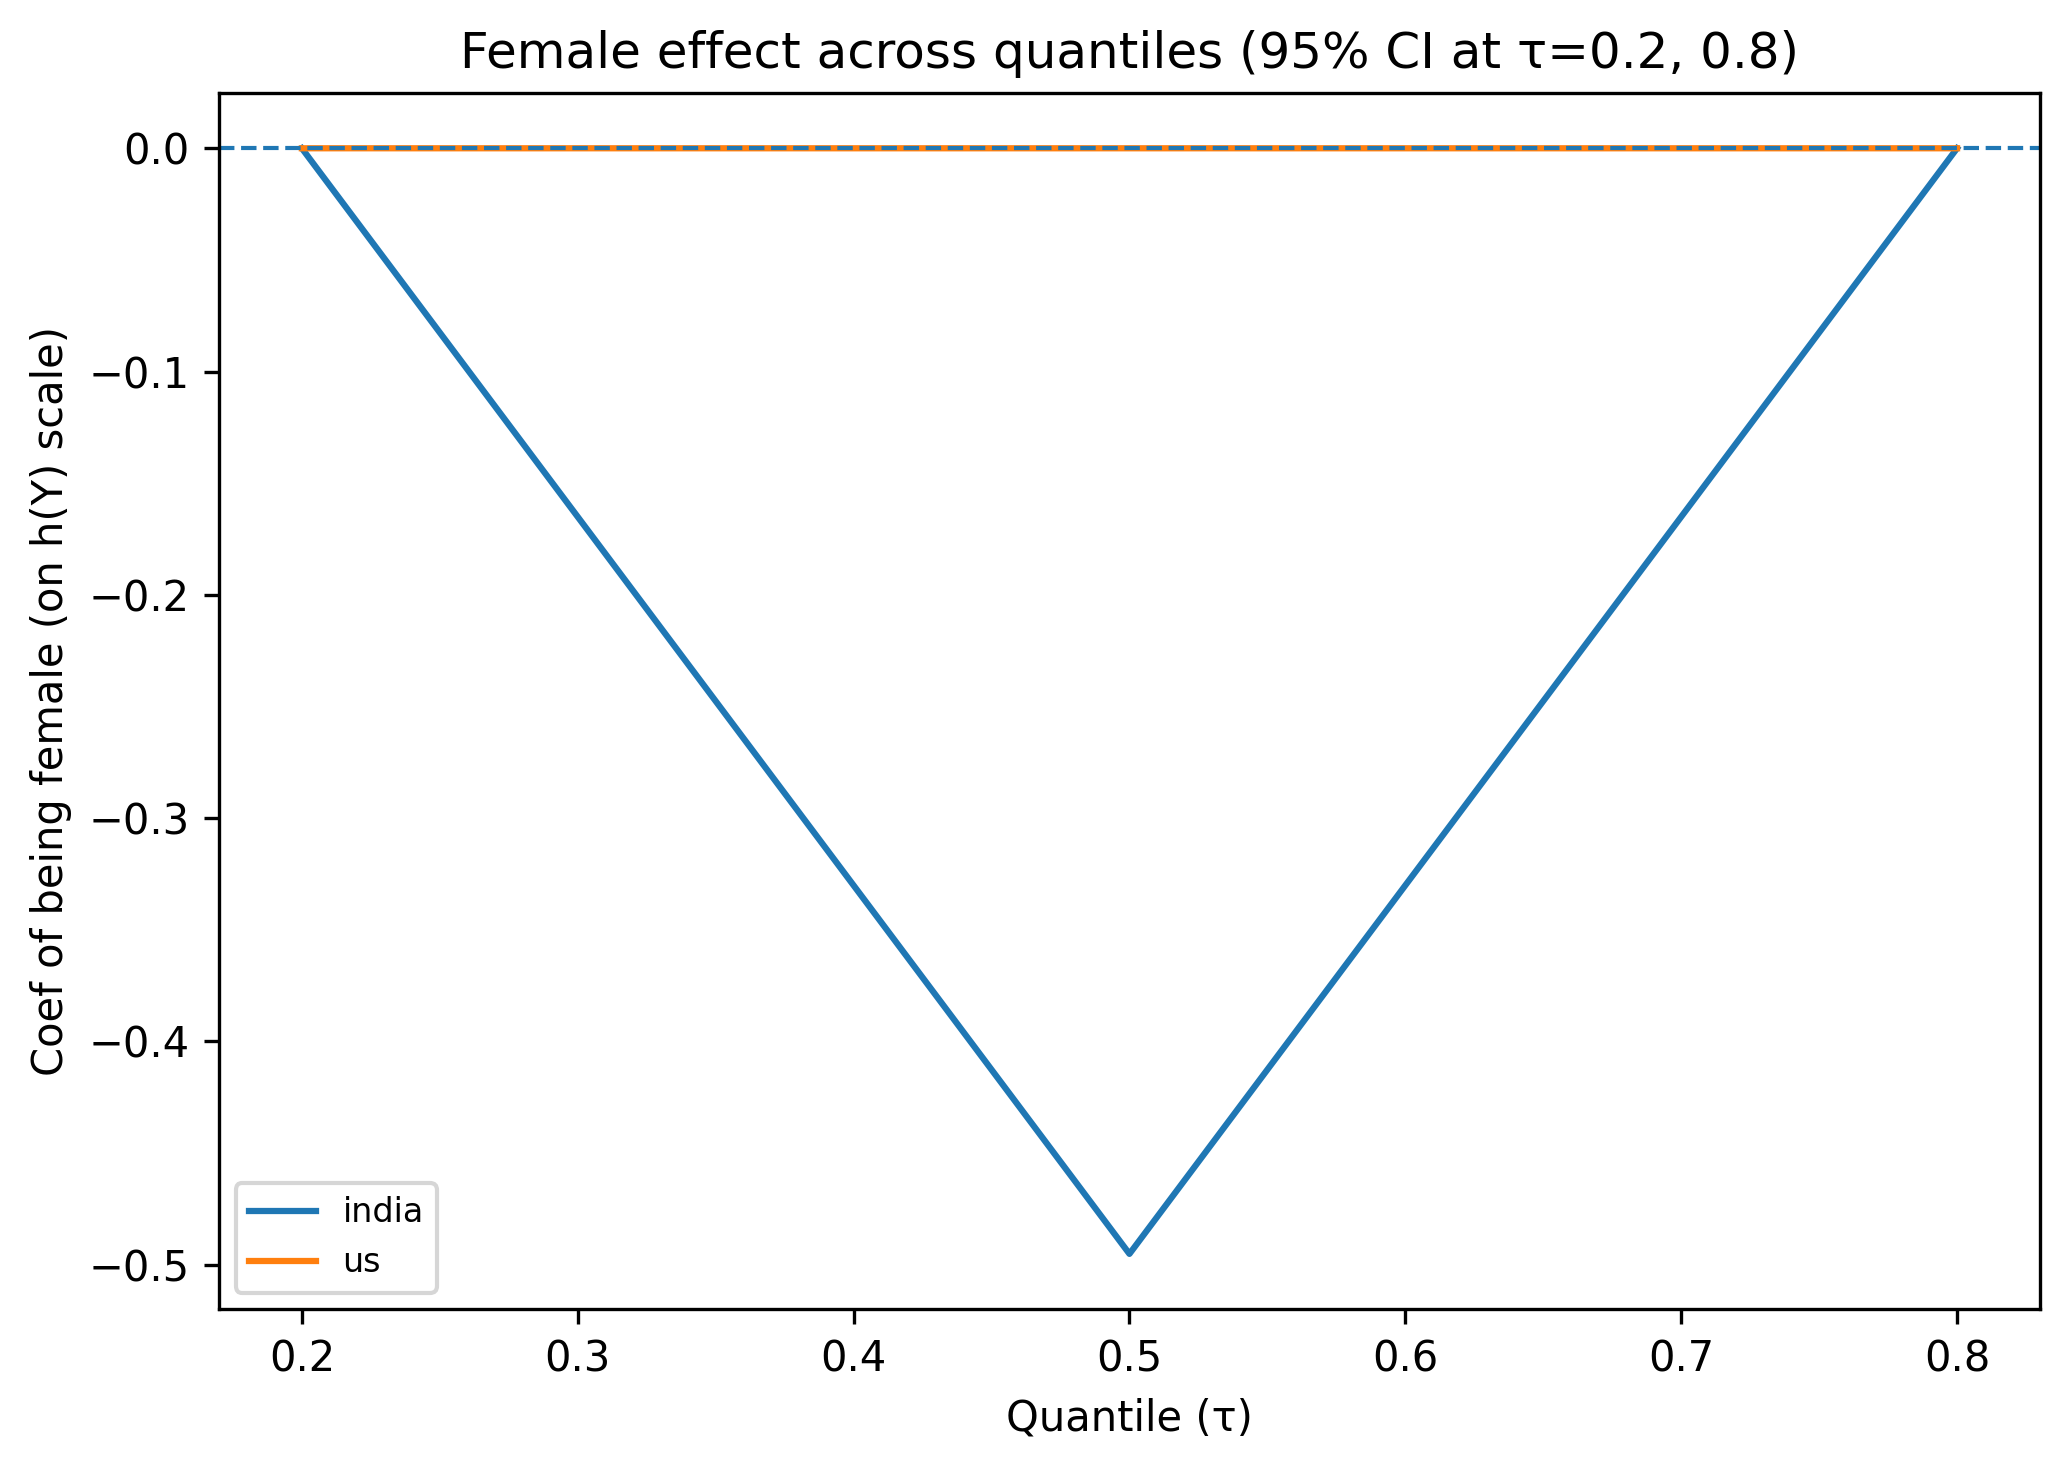
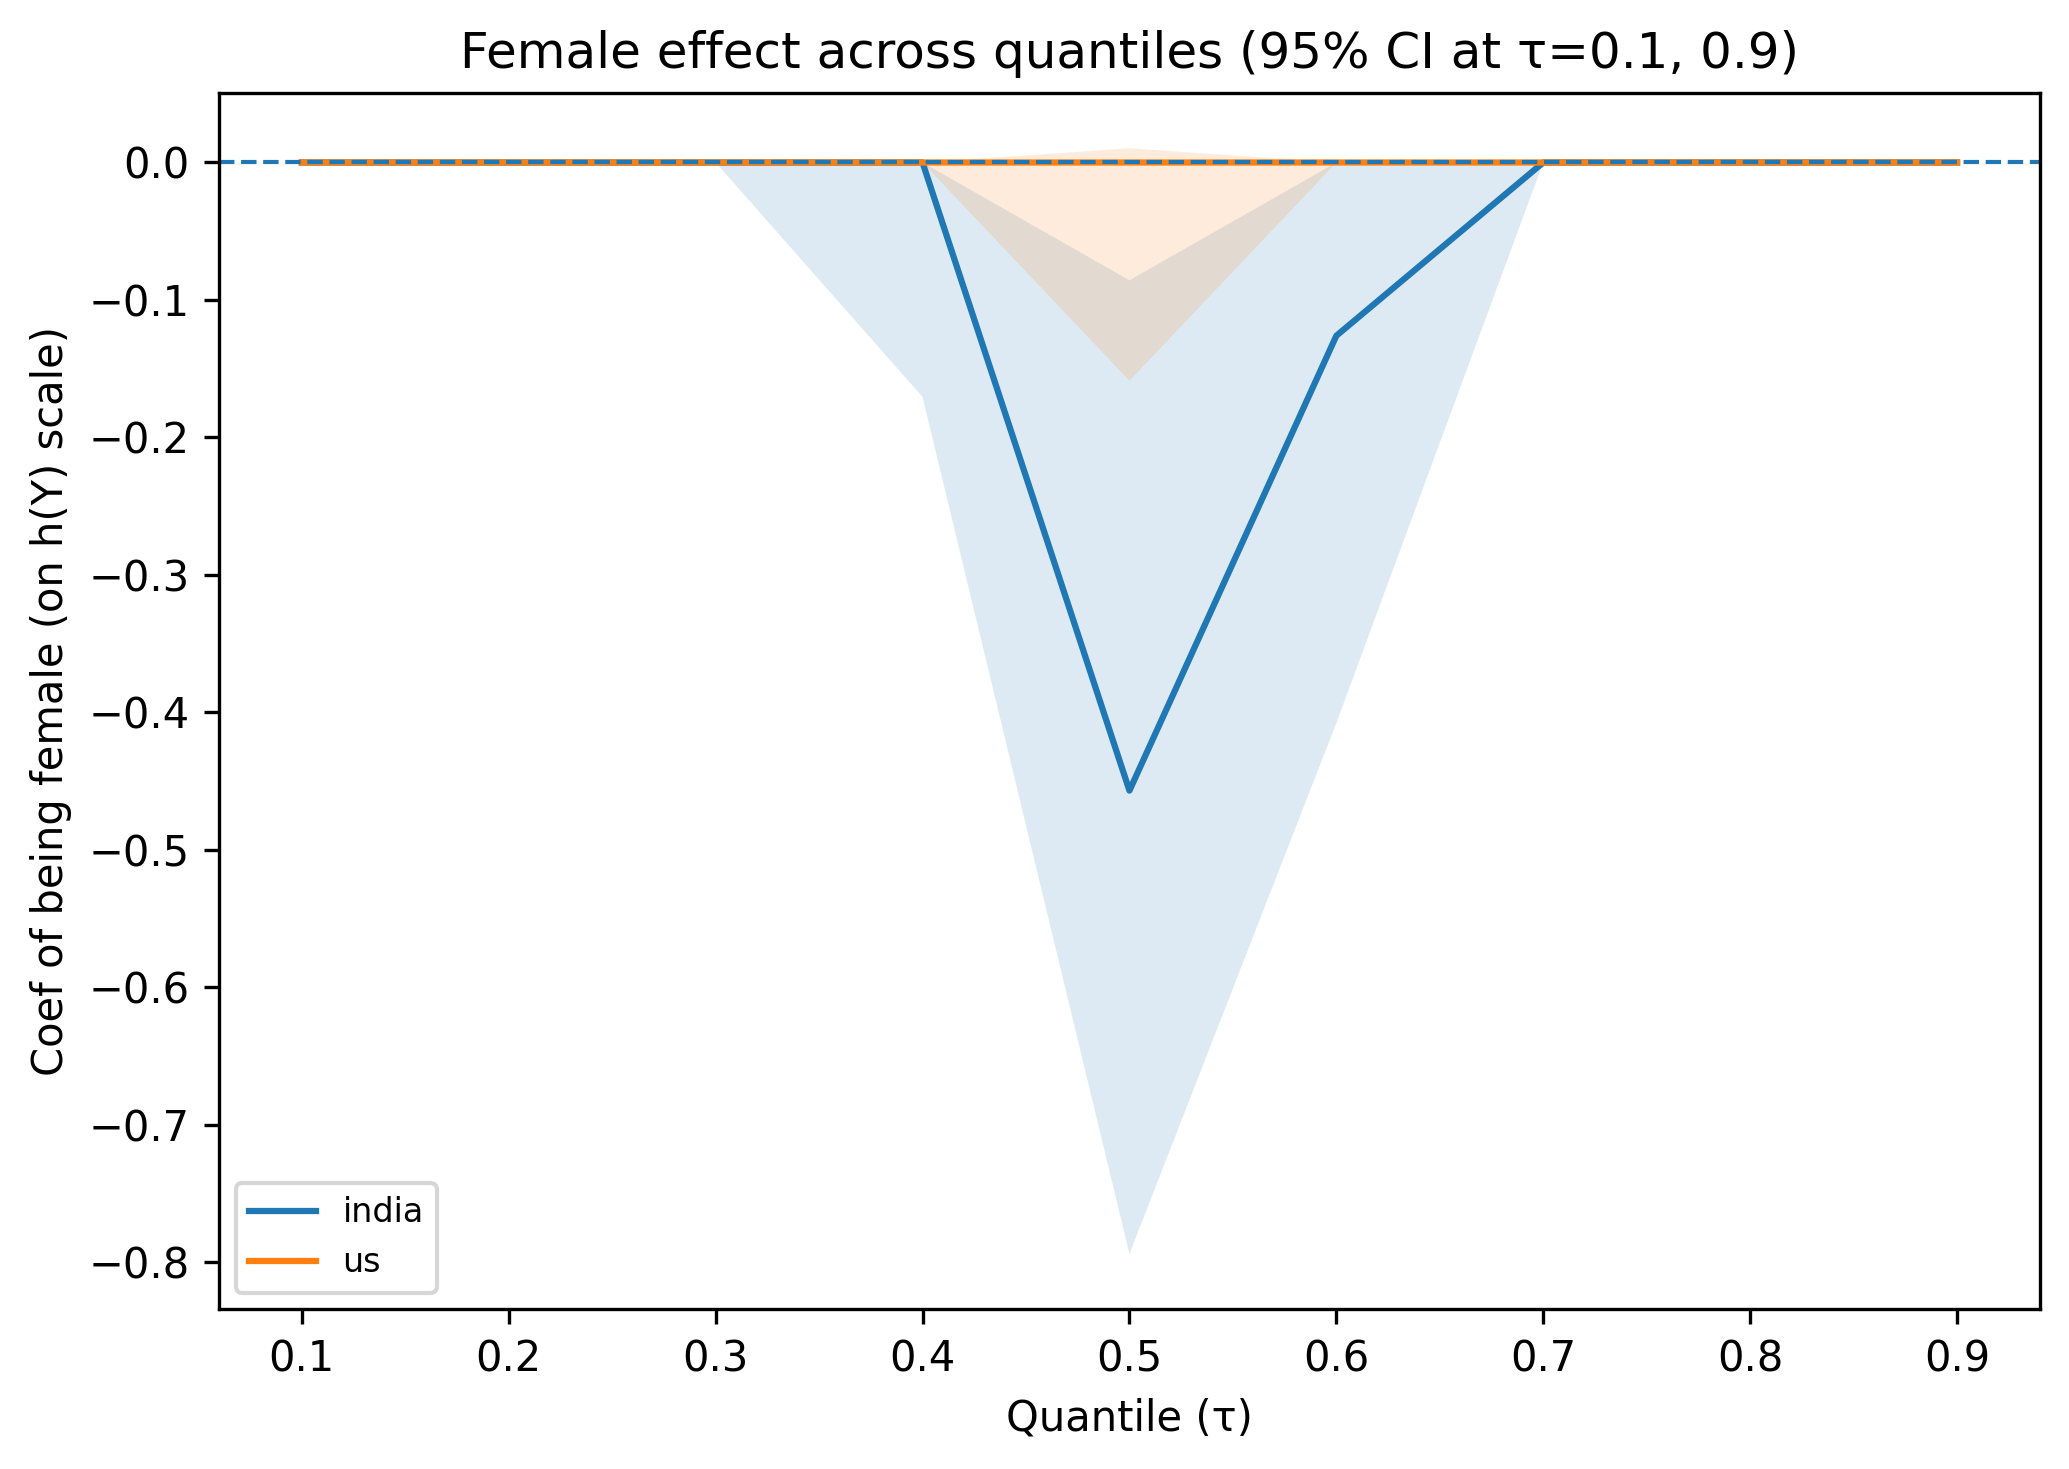
Fix critical bugs and enhance statistical robustness in OQR analysis
- Fix scoped variable bug in Holm correction logic using band labels
- Fix subsample rule to prevent setting n>sample_size in small datasets
- Add interpolated CDF calculation to replace step approximation
- Add band-level metadata (SE, warn_rate) for better reporting
- Export analysis metadata JSON for reproducibility
- Improve Holm correction to count only valid p-values
- Add configurable options for probability scale improvements

diff --git a/tests/frequentist_direct_test_effects.py b/tests/frequentist_direct_test_effects.py
@@ -59,6 +59,10 @@ N_PERMUTATION_DEFAULT = 0
 # —— 概率差阈值（可解释量纲）：至少 2 个百分点 ——
 PROB_DIFF_THRESHOLD = 0.02
 
+# —— 概率尺度改进选项 ——
+PROB_USE_INTERP = True        # 是否用插值计算 CDF（更精确，推荐）
+PROB_AME_S = None             # 样本平均处理效应样本量，None=代表性样本法，>0=AME
+
 # 是否在保存后显示图窗（在终端运行时会阻塞），默认不显示
 SHOW_FIG = False
 
@@ -77,12 +81,14 @@ os.makedirs(OUTPUT_DIR, exist_ok=True)
 # 统一拟合函数（保持与你现有 pipeline 一致的配置）
 def fit_model(X: np.ndarray, y: np.ndarray, taus=QUANTILES_MAIN, random_state: int = 0) -> FrequentistOQR:
     # 最小改法：每国只拟合一次；固定单指数；轻量网格以提速
-    subsample_dynamic = SUBSAMPLE_RULE(X.shape[0]) or 2000
+    n = X.shape[0]
+    rule = SUBSAMPLE_RULE(n)
+    subsample_n = None if rule is None else min(int(rule), n)
     m = FrequentistOQR(
         quantiles=taus,
         use_two_index=False,
         auto_select_k=True,
-        subsample_n=int(subsample_dynamic),
+        subsample_n=subsample_n,
         rank_grid_n=25,
         t_grid_n=31,
         random_state=random_state,
@@ -292,6 +298,19 @@ def _ci_from_samples(samples, level=0.95):
 def _p_from_sign_two_sided(samples):
     arr = np.asarray(samples, dtype=float)
     return float(2.0 * min(np.mean(arr >= 0.0), np.mean(arr <= 0.0)))
+
+def _cdf_by_interp(y_of_tau: np.ndarray, taus: np.ndarray, y_thresh: float) -> float:
+    """通过插值计算 P(Y <= y_thresh)，避免阶梯近似"""
+    if y_of_tau.size == 0 or taus.size == 0:
+        return 0.0
+    # 保序 & 去重
+    idx = np.argsort(taus)
+    taus_sorted = taus[idx]
+    y_sorted = y_of_tau[idx]
+    # 单调性强制（可选）
+    y_sorted = np.maximum.accumulate(y_sorted)
+    # 插值：在 y 轴上找阈值对应的 τ
+    return float(np.interp(y_thresh, y_sorted, taus_sorted, left=0.0, right=1.0))
 
 # ==================== Step 3: 按国家提取“female 分位系数 + CI” ====================
 def analyze_by_country_detailed(min_n: int = 500, n_bootstrap: int = N_BOOTSTRAP_DEFAULT, random_state: int = 0) -> Tuple[pd.DataFrame, pd.DataFrame, pd.DataFrame, pd.DataFrame]:
@@ -626,20 +645,28 @@ def analyze_by_country_detailed(min_n: int = 500, n_bootstrap: int = N_BOOTSTRAP
                 out = {'prob_bottom_f0': np.nan, 'prob_bottom_f1': np.nan, 'prob_top_f0': np.nan, 'prob_top_f1': np.nan, 'delta_prob': np.nan}
                 if (y0_arr is None) or (y1_arr is None):
                     return out
-                mask = (tau_grid_all >= float(low_tau) - 1e-12) & (tau_grid_all <= float(high_tau) + 1e-12)
-                if not np.any(mask):
-                    return out
-                y0b = y0_arr[mask]; y1b = y1_arr[mask]; taus = tau_grid_all[mask]
-                m0b = (y0b <= float(j_min) + 1e-9)
-                m1b = (y1b <= float(j_min) + 1e-9)
-                prob_bottom_f0 = float(np.max(taus[m0b])) if np.any(m0b) else 0.0
-                prob_bottom_f1 = float(np.max(taus[m1b])) if np.any(m1b) else 0.0
-                m0tcdf = (y0b <= float(j_max - 1) + 1e-9)
-                m1tcdf = (y1b <= float(j_max - 1) + 1e-9)
-                F0_topm1 = float(np.max(taus[m0tcdf])) if np.any(m0tcdf) else 0.0
-                F1_topm1 = float(np.max(taus[m1tcdf])) if np.any(m1tcdf) else 0.0
-                prob_top_f0 = float(1.0 - F0_topm1)
-                prob_top_f1 = float(1.0 - F1_topm1)
+                # 修正：统一使用全网格，避免带区子区间造成的伪影
+                y0b = y0_arr; y1b = y1_arr; taus = tau_grid_all
+                if PROB_USE_INTERP:
+                    # 插值法：更精确的 CDF
+                    prob_bottom_f0 = _cdf_by_interp(y0b, taus, float(j_min))
+                    prob_bottom_f1 = _cdf_by_interp(y1b, taus, float(j_min))
+                    F0_topm1 = _cdf_by_interp(y0b, taus, float(j_max - 1))
+                    F1_topm1 = _cdf_by_interp(y1b, taus, float(j_max - 1))
+                    prob_top_f0 = float(1.0 - F0_topm1)
+                    prob_top_f1 = float(1.0 - F1_topm1)
+                else:
+                    # 原阶梯法（保留兼容）
+                    m0b = (y0b <= float(j_min) + 1e-9)
+                    m1b = (y1b <= float(j_min) + 1e-9)
+                    prob_bottom_f0 = float(np.max(taus[m0b])) if np.any(m0b) else 0.0
+                    prob_bottom_f1 = float(np.max(taus[m1b])) if np.any(m1b) else 0.0
+                    m0tcdf = (y0b <= float(j_max - 1) + 1e-9)
+                    m1tcdf = (y1b <= float(j_max - 1) + 1e-9)
+                    F0_topm1 = float(np.max(taus[m0tcdf])) if np.any(m0tcdf) else 0.0
+                    F1_topm1 = float(np.max(taus[m1tcdf])) if np.any(m1tcdf) else 0.0
+                    prob_top_f0 = float(1.0 - F0_topm1)
+                    prob_top_f1 = float(1.0 - F1_topm1)
                 delta_prob_b = (prob_bottom_f1 - prob_bottom_f0) - (prob_top_f1 - prob_top_f0)
                 out.update({'prob_bottom_f0': prob_bottom_f0, 'prob_bottom_f1': prob_bottom_f1,
                             'prob_top_f0': prob_top_f0, 'prob_top_f1': prob_top_f1,
@@ -670,6 +697,7 @@ def analyze_by_country_detailed(min_n: int = 500, n_bootstrap: int = N_BOOTSTRAP
                 band_draws[band_name] = draws_band
                 lo_b, hi_b, sig_b = _ci_from_samples(draws_band, level=0.95)
                 p_b = _p_from_sign_two_sided(draws_band)
+                se_b = float(np.nanstd(draws_band, ddof=1)) if draws_band.size > 0 else np.nan
                 # 概率尺度（该 band 的 Δ_prob）
                 if len(band_taus) == 1:
                     low_t, high_t = float(band_taus[0]), float(band_taus[0])
@@ -683,6 +711,7 @@ def analyze_by_country_detailed(min_n: int = 500, n_bootstrap: int = N_BOOTSTRAP
                     'taus': ','.join([str(t) for t in taus_in_band]),
                     'female_coef_point_band': point_band,
                     'female_coef_ci_low_band': lo_b, 'female_coef_ci_high_band': hi_b,
+                    'female_coef_se_band': se_b,
                     'female_coef_sig_band': bool(sig_b), 'female_coef_p_boot_band': float(p_b),
                     'delta_prob_band': float(prob_metrics['delta_prob']),
                     'prob_bottom_female0_band': float(prob_metrics['prob_bottom_f0']),
@@ -690,6 +719,7 @@ def analyze_by_country_detailed(min_n: int = 500, n_bootstrap: int = N_BOOTSTRAP
                     'prob_top_female0_band': float(prob_metrics['prob_top_f0']),
                     'prob_top_female1_band': float(prob_metrics['prob_top_f1']),
                     'hy_sd': hy_sd, 'epsilon': epsilon, 'epsilon_mode': epsilon_mode,
+                    'qr_warn_rate': warn_rate, 'high_warn': high_warn,
                 })
 
             # 三对对比 + Holm 校正
@@ -729,14 +759,15 @@ def analyze_by_country_detailed(min_n: int = 500, n_bootstrap: int = N_BOOTSTRAP
                     'classification_pair': cls_pair,
                     'reason_pair': reason_pair,
                     'epsilon': epsilon, 'epsilon_mode': epsilon_mode,
+                    'qr_warn_rate': warn_rate, 'high_warn': high_warn,
                 }
                 pair_rows_tmp.append(rowp)
             # Holm 校正（每国 3 次对比）
             p_vals = [r['diff_p_boot'] for r in pair_rows_tmp if np.isfinite(r['diff_p_boot'])]
             if len(p_vals) > 0:
-                m = len(pair_rows_tmp)
+                m = sum(np.isfinite(r['diff_p_boot']) for r in pair_rows_tmp)  # 修正：只统计有效 p 值的条数
                 # sort by p ascending
-                order = sorted(range(m), key=lambda i: (pair_rows_tmp[i]['diff_p_boot'] if np.isfinite(pair_rows_tmp[i]['diff_p_boot']) else 1.0))
+                order = sorted(range(len(pair_rows_tmp)), key=lambda i: (pair_rows_tmp[i]['diff_p_boot'] if np.isfinite(pair_rows_tmp[i]['diff_p_boot']) else 1.0))
                 p_sorted = [pair_rows_tmp[i]['diff_p_boot'] if np.isfinite(pair_rows_tmp[i]['diff_p_boot']) else 1.0 for i in order]
                 p_adj_sorted = []
                 for j, pj in enumerate(p_sorted, start=1):
@@ -750,12 +781,13 @@ def analyze_by_country_detailed(min_n: int = 500, n_bootstrap: int = N_BOOTSTRAP
             # 基于 Holm 的更保守显著性标记
             for r in pair_rows_tmp:
                 r['diff_sig_holm'] = (np.isfinite(r.get('diff_p_boot_holm', np.nan)) and float(r['diff_p_boot_holm']) < 0.05)
-                # 按“未校正CI显著 AND Holm显著”共同为真进入强结论
-                if r['diff_sig'] and r['diff_sig_holm']:
-                    pass  # 分类在上方已依据未校正CI；保留 reason_pair，不强改
-                else:
+                # 修正悬空变量问题：用行内的 band_A/band_B 构造标签
+                label_sticky = f"{r['band_A']}_more_sticky_vs_{r['band_B']}"
+                label_glass = f"{r['band_A']}_more_glass_vs_{r['band_B']}"
+                # 按"未校正CI显著 AND Holm显著"共同为真进入强结论
+                if not (r['diff_sig'] and r['diff_sig_holm']):
                     # 若任一不显著，则若原分类为强结论则降级为 no_heterogeneity
-                    if r['classification_pair'] in (f'{a}_more_sticky_vs_{b}', f'{a}_more_glass_vs_{b}'):
+                    if r['classification_pair'] in (label_sticky, label_glass):
                         r['classification_pair'] = 'no_heterogeneity'
                         r['reason_pair'] = 'Holm 未通过或 CI 未显著'
             for r in pair_rows_tmp:
@@ -854,6 +886,36 @@ if len(female_coef_all) > 0:
         except Exception:
             pass
     print("[note] 附注：qr_warn_rate > 0.2 视为不稳定（high_warn=True）。")
+    
+    # 导出元数据配置
+    try:
+        import json
+        metadata = {
+            "timestamp": pd.Timestamp.now().isoformat(),
+            "random_state": 0,
+            "quantiles_main": list(QUANTILES_MAIN),
+            "bands_def": BANDS_DEF,
+            "compare_pairs": COMPARE_PAIRS,
+            "n_bootstrap_default": N_BOOTSTRAP_DEFAULT,
+            "effect_size_mode": EFFECT_SIZE_MODE,
+            "epsilon_sd_frac": EPSILON_SD_FRAC,
+            "epsilon_iqr_frac": EPSILON_IQR_FRAC,
+            "prob_diff_threshold": PROB_DIFF_THRESHOLD,
+            "prob_use_interp": PROB_USE_INTERP,
+            "prob_ame_s": PROB_AME_S,
+            "n_permutation_default": N_PERMUTATION_DEFAULT,
+            "estimand_mode": ESTIMAND_MODE,
+            "rank_grid_n": 25,
+            "t_grid_n": 31,
+            "qr_p_tol": QR_P_TOL,
+            "subsample_rule": "lambda n: (5000 if n > 20000 else (3000 if n > 3000 else None))",
+        }
+        meta_path = f'{OUTPUT_DIR}/analysis_metadata.json'
+        with open(meta_path, 'w') as f:
+            json.dump(metadata, f, indent=2)
+        print(f"✓ 分析元数据已保存: {meta_path}")
+    except Exception:
+        pass
 
     # 画每国一条曲线，并用阴影标出 95% CI
     plt.figure(figsize=(7, 5))
